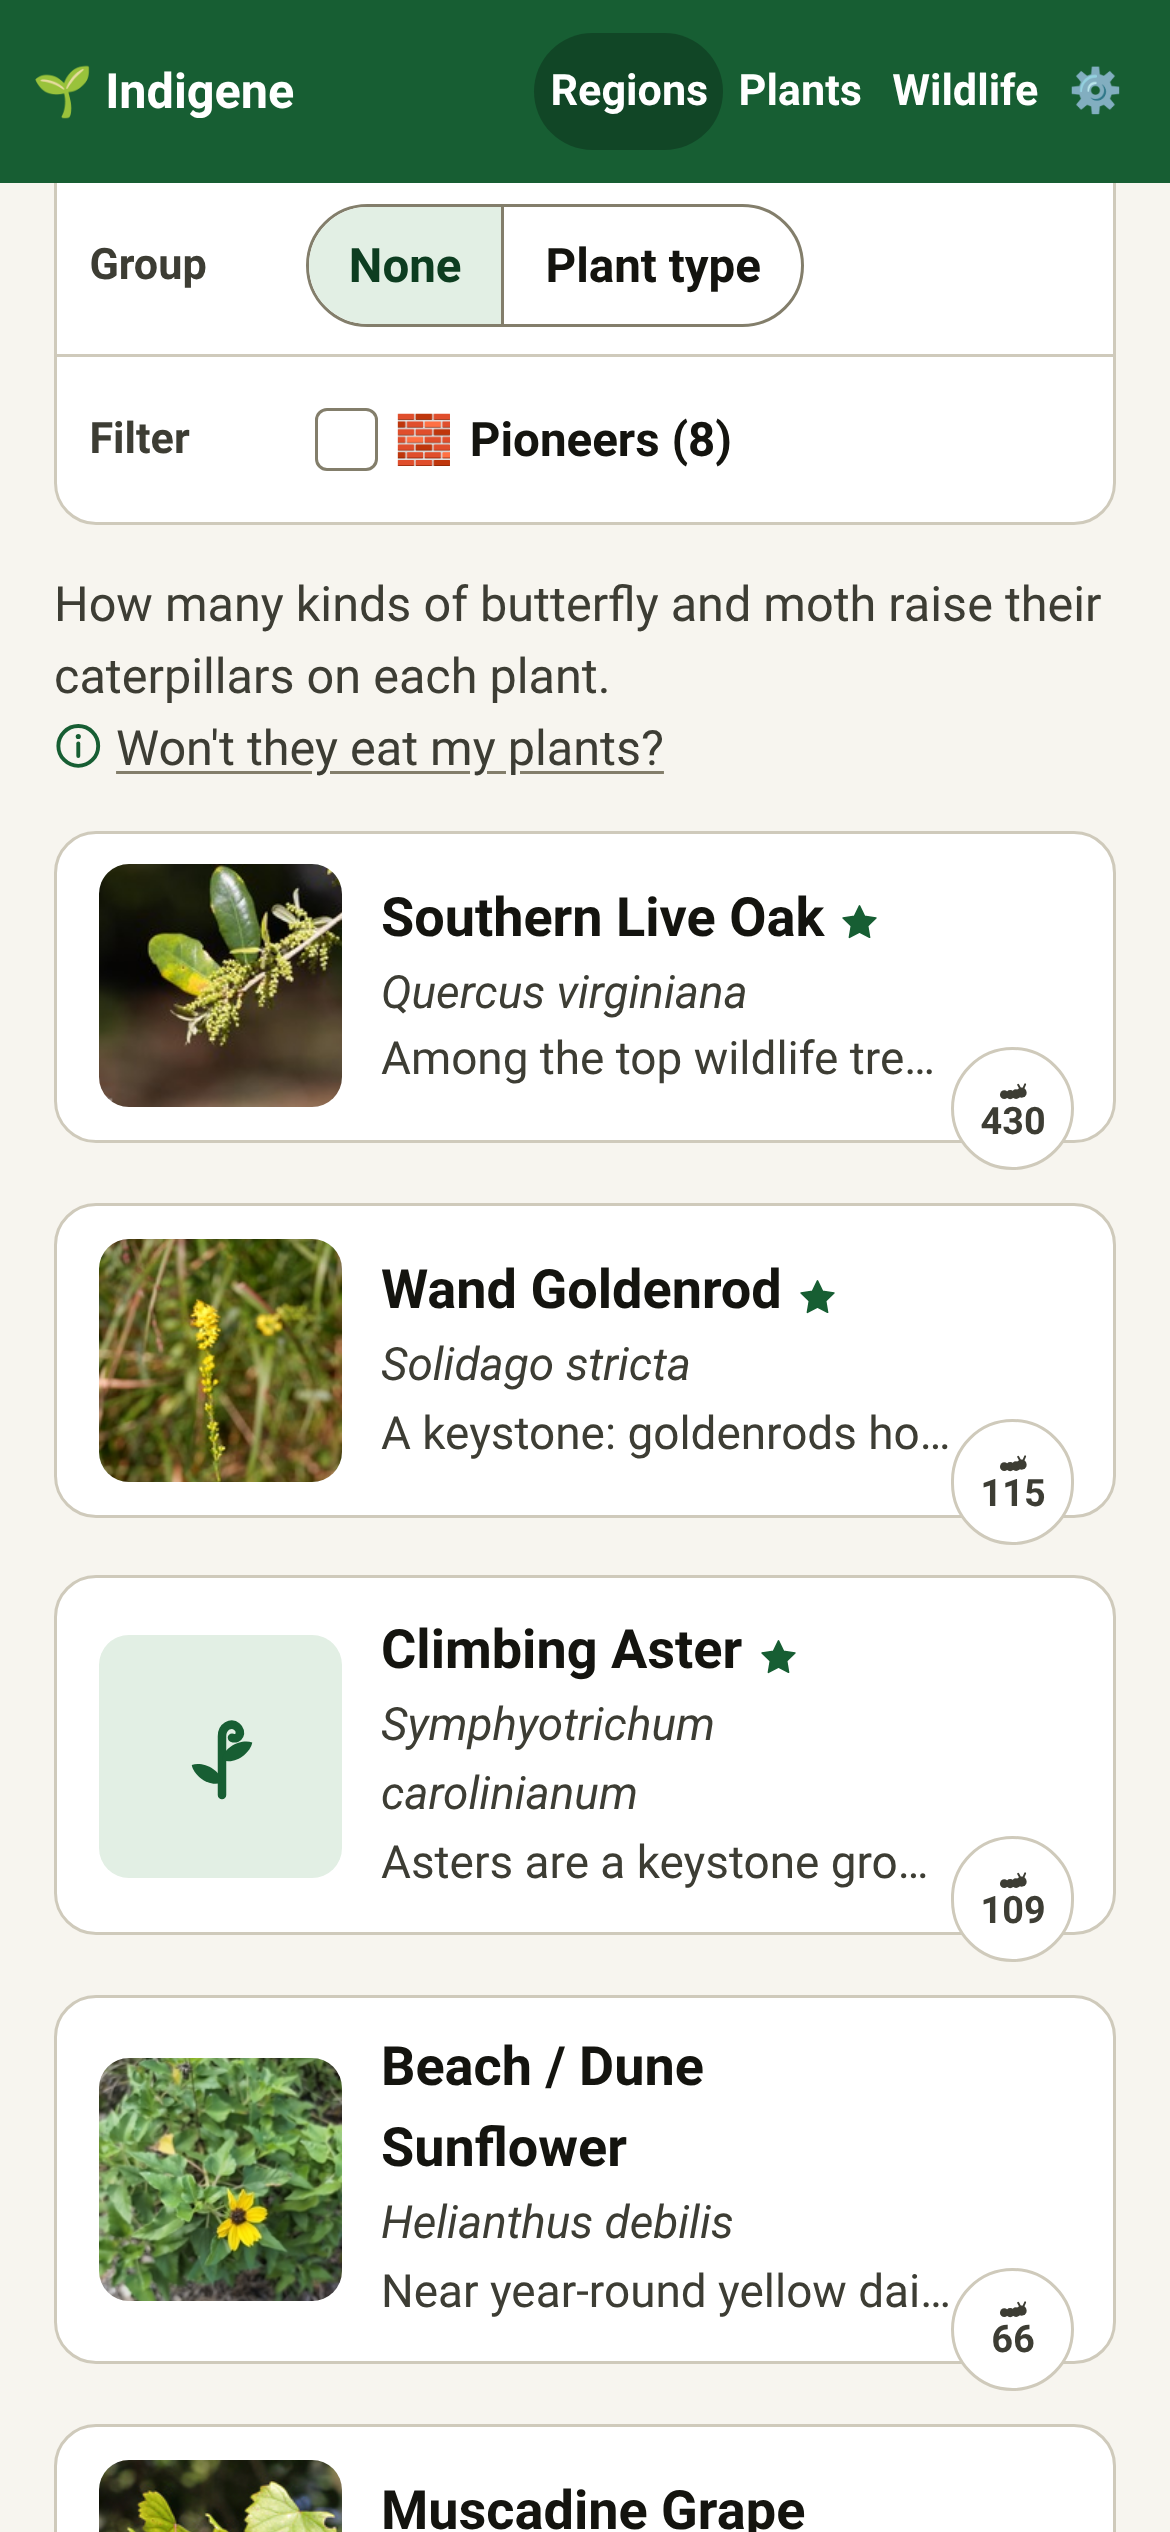
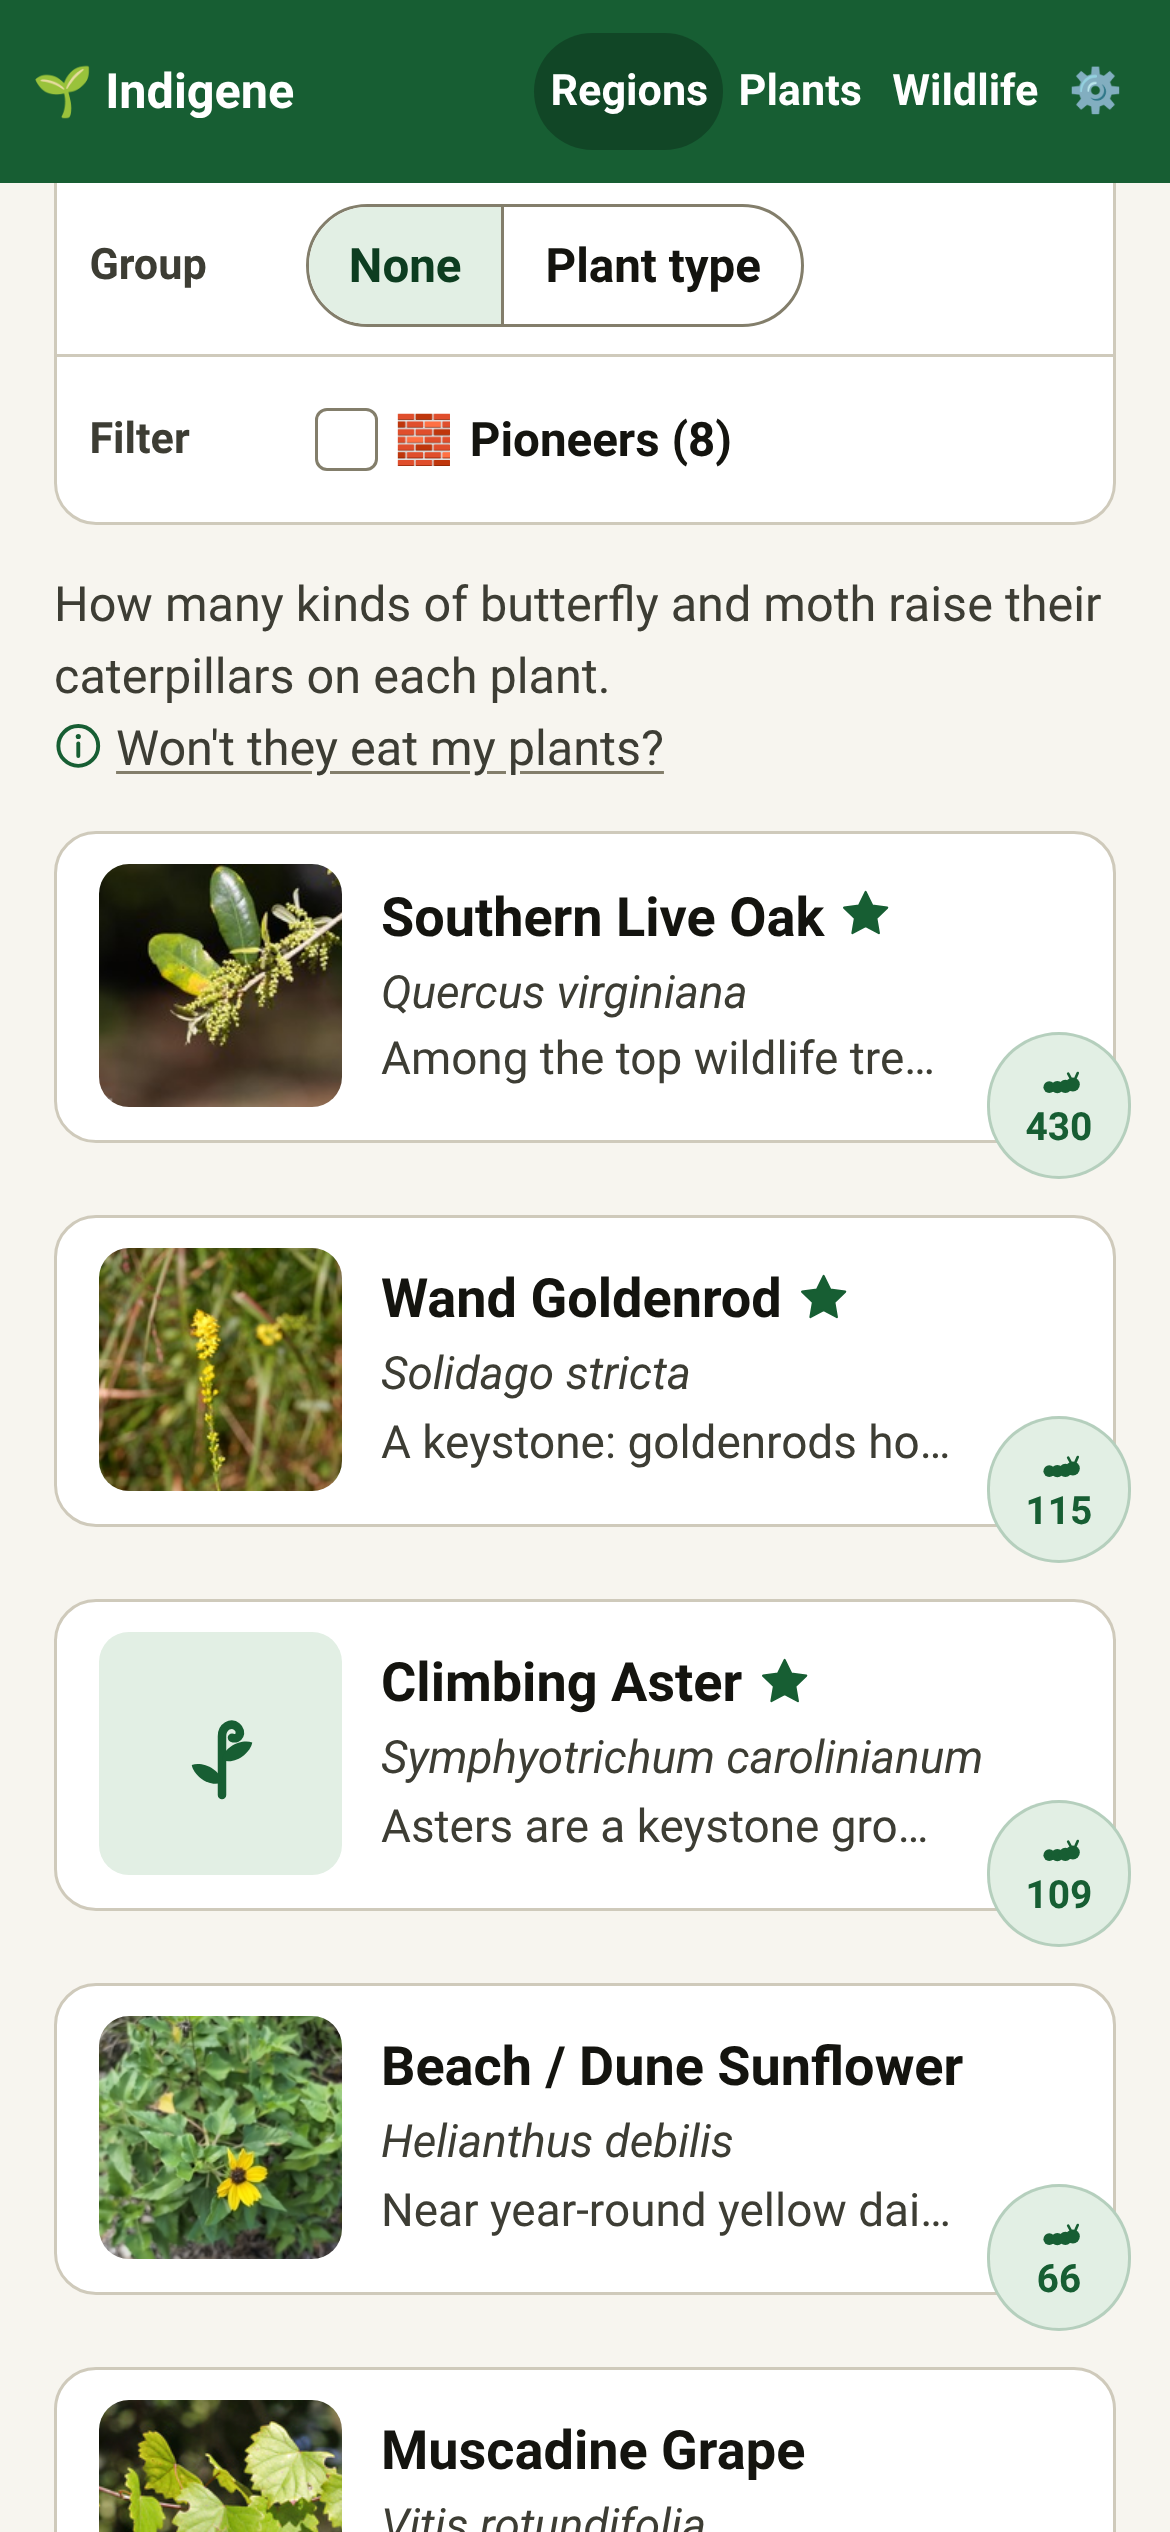
Size the keystone star to the name; pin the count tag to the corner
- .name-mark sizes the star at 0.95em of the name's type, and a word
  joiner keeps it from wrapping onto a line alone.
- The caterpillar tag sits on the card's very corner, green on the pale
  brand fill, with a larger glyph; only the description line makes room
  for it.

Claude-Session: https://claude.ai/code/session_01Qxwni3GJEFjMcvFVrHNdTc

diff --git a/app/src/steps/region.ts b/app/src/steps/region.ts
@@ -604,23 +604,25 @@ function plantRow(p: Plant, regionId: string, opts: RowOptions = {}): { node: HT
     // and the same species in Maryland are not the same-looking tree, and the
     // roster you're reading is one region's.
     plantThumb(p.id, p.form, { regionId, attrs: { style: "flex:0 0 auto" } }),
-    // Sorted by caterpillars, the text keeps clear of the count tag pinned
-    // over the card's corner.
-    el("div", { style: `flex:1 1 0;min-width:0${opts.caterpillars ? ";padding-right:2.2rem" : ""}` }, [
+    el("div", { style: "flex:1 1 0;min-width:0" }, [
       el("div", { style: "font-weight:700" }, [
         title,
+        // A word joiner keeps the star from wrapping onto a line alone.
+        p.keystone ? "\u2060" : null,
         p.keystone
           ? el("span", {
               title: t("explore.keystoneTitle"),
               role: "img",
               "aria-label": t("explore.keystoneLabel"),
-              style: "margin-left:0.3rem;color:var(--brand)",
+              class: "name-mark",
             }, [keystoneIcon(13)])
           : null,
       ]),
       sub,
+      // Sorted by caterpillars, the last line stops short of the count tag
+      // pinned over the card's corner — the only line the tag reaches.
       el("div", {
-        style: "font-size:0.85rem;color:var(--ink-soft);white-space:nowrap;overflow:hidden;text-overflow:ellipsis",
+        style: `font-size:0.85rem;color:var(--ink-soft);white-space:nowrap;overflow:hidden;text-overflow:ellipsis${opts.caterpillars ? ";padding-right:2.2rem" : ""}`,
       }, richText(prose(p, "givesNote", regionId))),
     ]),
     opts.pioneer ? pressureFooter({ plant: p, entry: opts.pioneer }, { interactive: false }) : null,
@@ -634,7 +636,7 @@ function plantRow(p: Plant, regionId: string, opts: RowOptions = {}): { node: HT
           role: "img",
           title: t("explore.caterpillarSpecies", { n: fmtNumber(p.hostLepCount) }),
           "aria-label": t("explore.caterpillarSpecies", { n: fmtNumber(p.hostLepCount) }),
-        }, [supportIcon("host", 11), fmtNumber(p.hostLepCount)])
+        }, [supportIcon("host", 15), fmtNumber(p.hostLepCount)])
       : null,
   ]);
   const mark = (nq: string): void => {

diff --git a/app/src/styles.css b/app/src/styles.css
@@ -1765,27 +1765,40 @@ details[open] > summary::after {
    pinned over the card's bottom-right edge, half on the card and half off. */
 .count-tag {
   position: absolute;
-  right: 0.7rem;
-  bottom: -0.55rem;
+  right: -0.35rem;
+  bottom: -0.7rem;
   display: inline-flex;
   flex-direction: column;
   align-items: center;
   justify-content: center;
-  min-width: 2.3rem;
-  height: 2.3rem;
+  gap: 0.12rem;
+  min-width: 2.7rem;
+  height: 2.7rem;
   padding: 0 0.3rem;
   border-radius: 999px;
-  border: 1px solid var(--line);
-  background: var(--surface);
-  color: var(--ink-soft);
-  font-size: 0.7rem;
+  border: 1px solid color-mix(in srgb, var(--brand) 22%, transparent);
+  background: var(--brand-bg);
+  color: var(--brand);
+  font-size: 0.72rem;
   font-weight: 700;
   line-height: 1;
   font-variant-numeric: tabular-nums;
 }
 /* Room below each card for the tag that hangs off it. */
 .card-grid:has(.count-tag) {
-  row-gap: 1.1rem;
+  row-gap: 1.3rem;
+}
+/* The keystone star beside a plant's name, sized to the name's own type so it
+   reads at a glance instead of trailing it as a speck. */
+.name-mark {
+  display: inline-flex;
+  margin-left: 0.3rem;
+  color: var(--brand);
+  vertical-align: -0.08em;
+}
+.name-mark .keystone-icon {
+  width: 0.95em;
+  height: 0.95em;
 }
 
 /* --- Stat grid: the "player card" block of at-a-glance characteristics ---

diff --git a/app/src/steps/explore.ts b/app/src/steps/explore.ts
@@ -102,12 +102,14 @@ function regionCard(region: RegionDef): HTMLElement {
             el("span", { class: "region-card-kicker" }, t("explore.starring")),
             el("span", { class: "region-card-plant" }, [
               star.title,
+              // A word joiner keeps the star from wrapping onto a line alone.
+              p.keystone ? "\u2060" : null,
               p.keystone
                 ? el("span", {
                     title: t("explore.keystoneTitle"),
                     role: "img",
                     "aria-label": t("explore.keystoneLabel"),
-                    style: "margin-left:0.3rem;color:var(--brand)",
+                    class: "name-mark",
                   }, [keystoneIcon(13)])
                 : null,
             ]),

diff --git a/app/src/components/pioneer-card.ts b/app/src/components/pioneer-card.ts
@@ -68,12 +68,14 @@ export function pioneerCard(
       el("div", { style: "min-width:0" }, [
         el("div", { class: "pioneer-name" }, [
           el("a", { href: `#/plants/${plant.id}` }, names.title),
+          // A word joiner keeps the star from wrapping onto a line alone.
+          plant.keystone ? "\u2060" : null,
           plant.keystone
             ? el("span", {
                 title: t("explore.keystoneTitle"),
                 role: "img",
                 "aria-label": t("explore.keystoneLabel"),
-                style: "margin-left:0.3rem;color:var(--brand)",
+                class: "name-mark",
               }, [keystoneIcon(13)])
             : null,
         ]),

diff --git a/app/src/steps/wildlife.ts b/app/src/steps/wildlife.ts
@@ -759,12 +759,14 @@ function supportRow(s: PlantSupport): FilterRow {
     el("div", { class: "support-row-text" }, [
       el("div", { style: "font-weight:700" }, [
         title,
+        // A word joiner keeps the star from wrapping onto a line alone.
+        p.keystone ? "\u2060" : null,
         p.keystone
           ? el("span", {
               title: t("explore.keystoneTitle"),
               role: "img",
               "aria-label": t("explore.keystoneLabel"),
-              style: "margin-left:0.3rem;color:var(--brand)",
+              class: "name-mark",
             }, [keystoneIcon(13)])
           : null,
       ]),
